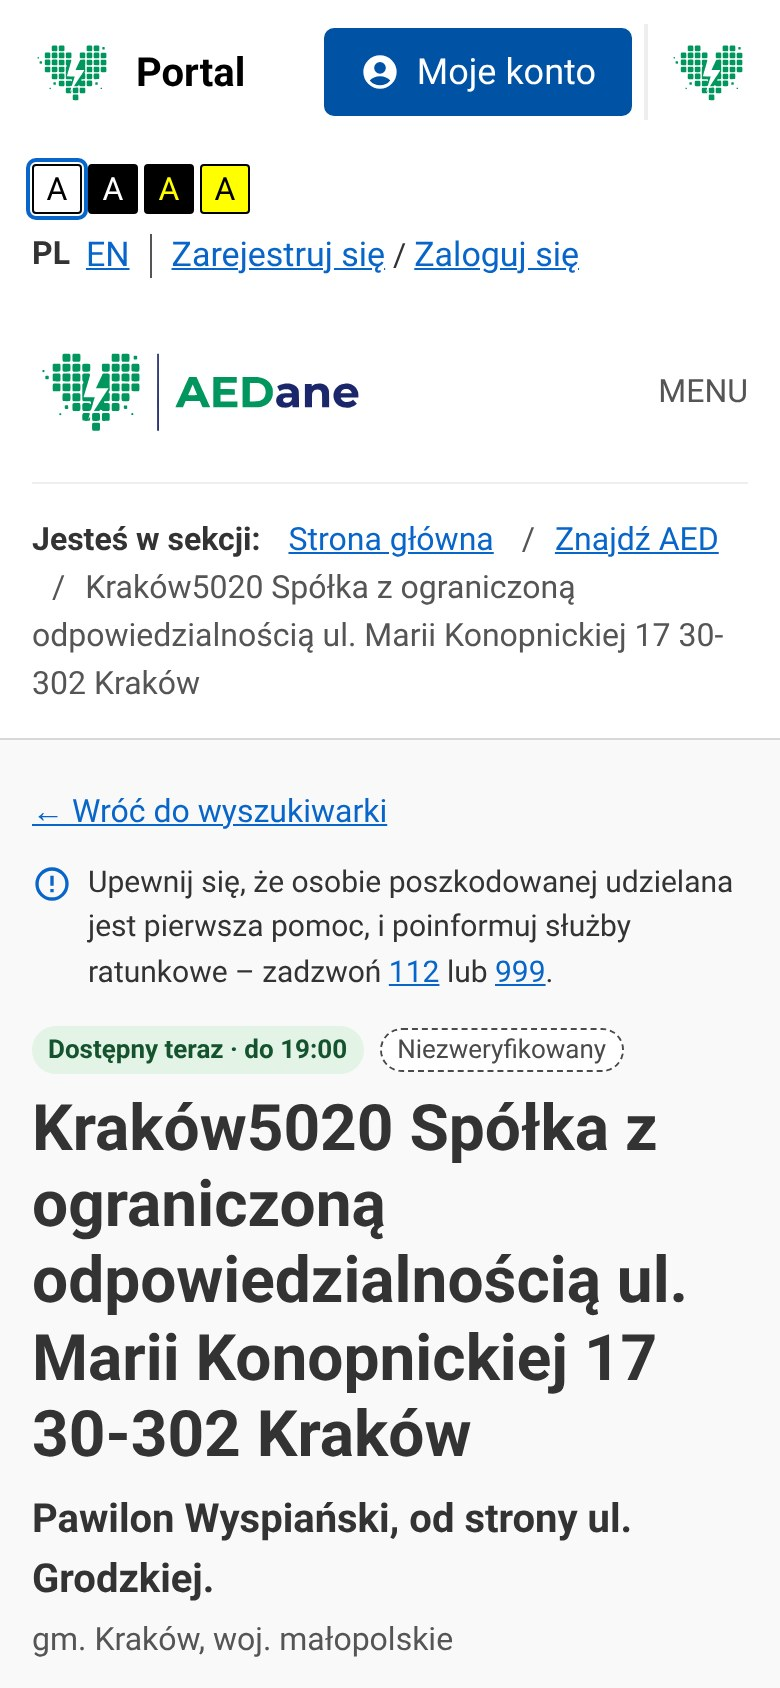
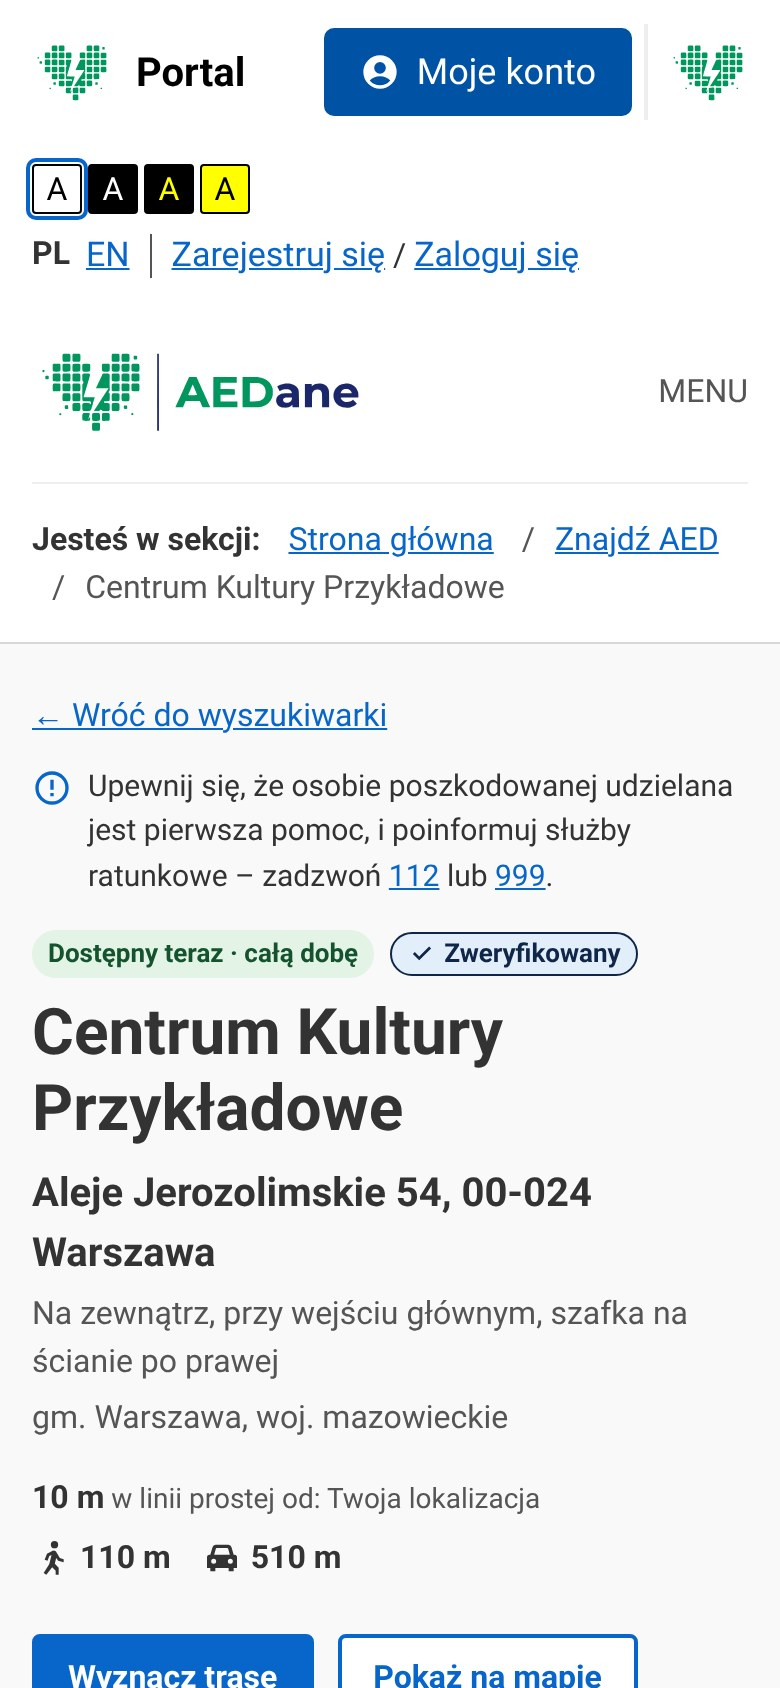
presentation: Inter zamiast Montserrat, AED wzorcowy na tytule i w ścieżce obywatela, prostszy slajd architektury
AI-Assisted: Claude Code claude-opus-5-5
Claude-Session: https://claude.ai/code/session_01KGKLQRRSoYEonnxSuS6fbZ

Changed region(s): [[0.0308, 0.3389, 0.9538, 1.0], [0.8, 0.955, 0.8308, 1.0]]

diff --git a/presentation/narzedzia/zrzuty.py b/presentation/narzedzia/zrzuty.py
@@ -1,72 +1,51 @@
 import datetime, sys
 from playwright.sync_api import sync_playwright
-# Zrzuty prototypu do prezentacji (Playwright, Python).
-# Serwery: cd app && python -m http.server 8765 (MAIN) oraz kopia app/ z rekordem wzorcowym
-# (node presentation/narzedzia/rekord_wzorcowy.js <kopia-app>) na porcie 8766 (DEMO).
-# Uruchomienie: python presentation/narzedzia/zrzuty.py [model citizen wcag desk]
-# Zegar: wtorek 11:00, żeby „dostępny teraz” wyglądało jak w dzień.
+# Zrzuty prototypu do prezentacji (Playwright, Python), na kopii app/ z rekordem wzorcowym:
+#   cp -r app /tmp/app-demo && node presentation/narzedzia/rekord_wzorcowy.js /tmp/app-demo
+#   cd /tmp/app-demo && python -m http.server 8766
+# Uruchomienie: python presentation/narzedzia/zrzuty.py [flow hc font]
+# Zegar: wtorek 11:00; położenie: przy AED wzorcowym (Warszawa, Al. Jerozolimskie 54).
 import pathlib
 OUT=str(pathlib.Path(__file__).resolve().parent.parent / "zrzuty-surowe") + "/"
 pathlib.Path(OUT).mkdir(exist_ok=True)
-MAIN="http://localhost:8765/"; DEMO="http://localhost:8766/"
+DEMO="http://localhost:8766/"
 T=datetime.datetime(2026,11,24,11,0)
 IOS="Mozilla/5.0 (iPhone; CPU iPhone OS 18_0 like Mac OS X) AppleWebKit/605.1.15 (KHTML, like Gecko) Version/18.0 Mobile/15E148 Safari/604.1"
 MODEL="aed-warszawa-centrum-kultury-przykladowe-bd767fc6fc-mazowieckie"
-def ctx(b,w,h,geo=None,mobile=False,perms=True):
-    return b.new_context(viewport={"width":w,"height":h},device_scale_factor=2 if mobile else 1.5,is_mobile=mobile,has_touch=mobile,
-        locale="pl-PL",timezone_id="Europe/Warsaw",geolocation=geo,permissions=["geolocation"] if (geo and perms) else [],user_agent=IOS if mobile else None)
-def page(c):
-    p=c.new_page(); p.clock.install(time=T); return p
-KRK={"latitude":50.0614,"longitude":19.9372}
-WAW={"latitude":52.2297,"longitude":21.0122}
-which=sys.argv[1:] or ["all"]
-want=lambda n:"all" in which or n in which
+GEO={"latitude":52.22884,"longitude":21.00338}
+def ctx(b,w,h,mobile=True,geo=GEO):
+    return b.new_context(viewport={"width":w,"height":h},device_scale_factor=2,is_mobile=mobile,has_touch=mobile,locale="pl-PL",timezone_id="Europe/Warsaw",geolocation=geo,permissions=["geolocation"],user_agent=IOS if mobile else None)
+which=sys.argv[1:] or ["all"]; want=lambda n:"all" in which or n in which
 with sync_playwright() as pw:
     b=pw.chromium.launch()
-    if want("model"):
-        c=ctx(b,1440,900,WAW); p=page(c); p.goto(DEMO+"aed.html?aed="+MODEL); p.wait_for_timeout(1500)
-        btn=p.get_by_role("button",name="Pokaż odległość")
-        if btn.count(): btn.first.click()
-        p.wait_for_timeout(7000); p.evaluate("window.scrollTo(0,0)"); p.wait_for_timeout(300)
-        p.screenshot(path=OUT+"model-desktop.png"); 
-        p.screenshot(path=OUT+"model-desktop-full.png",full_page=True); c.close()
-        c=ctx(b,390,844,WAW,True); p=page(c); p.goto(DEMO+"aed.html?aed="+MODEL); p.wait_for_timeout(1500)
-        btn=p.get_by_role("button",name="Pokaż odległość")
-        if btn.count(): btn.first.click()
-        p.wait_for_timeout(7000); p.evaluate("window.scrollTo(0,0)"); p.wait_for_timeout(300)
-        p.screenshot(path=OUT+"model-mobile.png"); p.screenshot(path=OUT+"model-mobile-full.png",full_page=True); c.close()
-    if want("citizen"):
-        c=ctx(b,390,844,KRK,True); p=page(c); p.goto(MAIN+"index.html"); p.wait_for_timeout(2000)
-        p.screenshot(path=OUT+"c1-start.png")
+    if want("flow"):
+        c=ctx(b,390,844); p=c.new_page(); p.clock.install(time=T)
+        p.goto(DEMO+"index.html"); p.wait_for_timeout(1800); p.screenshot(path=OUT+"o1-start.png")
         p.click("#locate"); p.wait_for_timeout(9000)
-        p.locator("#highlight").scroll_into_view_if_needed(); p.wait_for_timeout(500)
-        p.screenshot(path=OUT+"c2-wynik.png")
-        p.locator("#highlight [data-show]").first.click(); p.wait_for_timeout(6000)
-        p.screenshot(path=OUT+"c3-dymek.png")
-        p.locator(".popup-details-link").first.click(); p.wait_for_timeout(2500)
+        print("najblizszy:", p.locator("#highlight h3, #highlight .highlight-title").first.inner_text() if p.locator("#highlight h3, #highlight .highlight-title").count() else p.locator("#highlight").inner_text()[:120])
+        # tytułowy: mapa u góry, pod nią karta najbliższego AED
+        top=p.evaluate("document.querySelector('#map').getBoundingClientRect().top+window.scrollY")
+        hb=p.evaluate("(()=>{const r=document.querySelector('#highlight').getBoundingClientRect();return r.bottom+window.scrollY})()")
+        print("map top",top,"highlight bottom",hb)
+        p.evaluate(f"window.scrollTo(0,{max(0,hb-844+16)})"); p.wait_for_timeout(600)
+        p.screenshot(path=OUT+"o2-wynik.png")
+        p.locator("#highlight [data-show]").first.click(); p.wait_for_timeout(5000)
+        p.screenshot(path=OUT+"o3-dymek.png")
+        p.goto(DEMO+"aed.html?aed="+MODEL); p.wait_for_timeout(1500)
         btn=p.get_by_role("button",name="Pokaż odległość")
         if btn.count(): btn.first.click()
         p.wait_for_timeout(6000); p.evaluate("window.scrollTo(0,0)"); p.wait_for_timeout(300)
-        p.screenshot(path=OUT+"c4-szczegoly.png"); c.close()
-    if want("wcag"):
-        c=ctx(b,390,844,KRK,True); p=page(c); p.goto(MAIN+"index.html"); p.wait_for_timeout(1500)
-        p.click("button[data-contrast='black-yellow']"); p.click("#locate"); p.wait_for_timeout(8000); p.evaluate("window.scrollTo(0,0)")
+        p.screenshot(path=OUT+"o4-szczegoly.png"); p.screenshot(path=OUT+"o4-full.png",full_page=True); c.close()
+    if want("hc"):
+        c=ctx(b,390,844); p=c.new_page(); p.clock.install(time=T)
+        p.goto(DEMO+"index.html"); p.wait_for_timeout(1500)
+        p.click("button[data-contrast='black-yellow']"); p.click("#locate"); p.wait_for_timeout(9000)
+        hb=p.evaluate("(()=>{const r=document.querySelector('#highlight').getBoundingClientRect();return r.bottom+window.scrollY})()")
+        p.evaluate(f"window.scrollTo(0,{max(0,hb-844+16)})"); p.wait_for_timeout(600)
         p.screenshot(path=OUT+"w-kontrast.png"); c.close()
-        c=ctx(b,320,700,KRK,True); p=page(c); p.goto(MAIN+"index.html"); p.wait_for_timeout(1500)
-        p.screenshot(path=OUT+"w-320.png"); print("scrollW",p.evaluate("document.documentElement.scrollWidth")); c.close()
-        c=ctx(b,1440,900,KRK); p=page(c); p.goto(MAIN+"index.html"); p.wait_for_timeout(1500)
-        p.click("button[data-font='200']")
-        p.wait_for_timeout(500); p.screenshot(path=OUT+"w-tekst.png"); c.close()
-        c=ctx(b,390,844,KRK,True,perms=False); p=page(c); p.goto(MAIN+"index.html"); p.wait_for_timeout(1500)
-        p.click("#locate"); p.wait_for_timeout(1500); p.locator("#geo-help").scroll_into_view_if_needed()
-        p.screenshot(path=OUT+"w-pomoc.png"); c.close()
-        c=ctx(b,390,844,None,True); p=page(c); p.goto(MAIN+"index.html"); p.wait_for_timeout(1500)
-        p.click("#search"); p.keyboard.type("krosno akademia",delay=60); p.wait_for_timeout(1200)
-        p.screenshot(path=OUT+"w-podpowiedzi.png"); c.close()
-    if want("desk"):
-        c=ctx(b,1440,900,KRK); p=page(c); p.goto(MAIN+"index.html"); p.wait_for_timeout(1500)
-        p.click("#locate"); p.wait_for_timeout(8000)
-        p.locator("#highlight [data-show]").first.click(); p.wait_for_timeout(6000)
-        p.evaluate("window.scrollTo(0,0)"); p.wait_for_timeout(300)
-        p.screenshot(path=OUT+"desk-krakow.png"); c.close()
+    if want("font"):
+        c=ctx(b,768,1024,mobile=False); p=c.new_page(); p.clock.install(time=T)
+        p.goto(DEMO+"index.html"); p.wait_for_timeout(1500)
+        p.click("button[data-font='200']"); p.wait_for_timeout(800)
+        p.screenshot(path=OUT+"w-tekst200.png"); c.close()
     b.close()

diff --git a/presentation/README.md b/presentation/README.md
@@ -15,26 +15,25 @@ Hasło prezentacji: **„Otwarte dane. Cenne sekundy. Uratowane życie.”**
 
 | # | Slajd | Co pokazuje | Zrzut / materiał |
 |---|---|---|---|
-| 1 | Tytułowy | logotyp, hasło, zespół, zadanie | `branding/logotyp-aedane.svg`, `zrzuty/obywatel-3-dymek.jpg` |
+| 1 | Tytułowy | logotyp, hasło, zespół; telefon z mapą i najbliższym AED wzorcowym (zweryfikowany, czynny całą dobę) | `branding/logotyp-aedane.svg`, `zrzuty/obywatel-2-wynik.jpg` |
 | 2 | Problem i wyzwanie | historia z treści zadania; 50 AED na dane.gov.pl (3 z 2 479 gmin) vs ok. 18,3 tys. w OSM; wyzwanie | `zrzuty/mapa-luk.jpg` |
-| 3 | Nasza odpowiedź: AEDane | obieg: wzorcowy zakres → pakiet → wykaz zbiorczy w portalu → Znajdź AED; akcja AEDane; „dane muszą mieć właściciela” | sygnet |
+| 3 | Nasza odpowiedź: AEDane | 4 kroki prostym językiem: wspólny formularz → sprawdzenie i paczka → jeden wykaz na dane.gov.pl → Znajdź AED; akcja AEDane | sygnet |
 | 4 | Wzorcowy zakres danych | 41 pól (14/20/7), 8 grup; **wzorcowo opisany AED**: zweryfikowany, ze zdjęciem, godzinami, dostępem, opisem miejsca, dysponentem | `zrzuty/rekord-wzorcowy.jpg` |
-| 5 | Architektura i zgodność z dane.gov.pl | 5 etapów obiegu; formaty, XSD harwestera, licencje, wzór DGA | `zrzuty/portal-demo-wykaz.png` |
-| 6 | Ścieżka: dysponent danych | 5 kroków instytucji + 3 kroki dystrybutora | `zrzuty/pakiet-krosno.png` |
-| 7 | Ścieżka: obywatel i ratownik | 4 kroki od telefonu do czynnego AED | `zrzuty/obywatel-1…4-*.jpg` |
-| 8 | Dostępność WCAG i testy | axe-core (14 widoków, 0 naruszeń poza opisanym wyjątkiem 2.5.8), 328 testów, kontrast, 320 px | `zrzuty/wcag-*.jpg` |
+| 5 | Architektura i zgodność z dane.gov.pl | dla osób spoza IT: 3 kroki (instytucja wgrywa plik → portal łączy co noc → każdy korzysta), wynik 50 AED z portalu, zasady portalu | – (wynik: `zrzuty/portal-demo-wykaz.png`) |
+| 6 | Ścieżka: dysponent danych | 5 kroków instytucji + 3 kroki dystrybutora | – |
+| 7 | Ścieżka: obywatel i ratownik | 4 kroki od telefonu do czynnego AED, na AED wzorcowym | `zrzuty/obywatel-1…4-*.jpg` |
+| 8 | Dostępność WCAG i testy | axe-core (14 widoków, 0 naruszeń poza opisanym wyjątkiem 2.5.8), 328 testów, tryb kontrastu, tekst 200% (A+++), pomoc przy lokalizacji | `zrzuty/wcag-*.jpg` |
 | 9 | Ograniczenia i dalszy rozwój | **lista ograniczeń** i propozycje rozwoju | – |
 | 10 | Dziękujemy za uwagę | hasło, logotyp, zespół, repozytorium | – |
 
-Zrzuty ekranu są na slajdach 1, 2, 4, 5, 6, 7 i 8 (wymóg: min. 5). Kroki użytkownika: slajdy 6 i 7. Ograniczenia: slajd 9.
+Zrzuty ekranu są na slajdach 1, 2, 4, 7 i 8 (wymóg: min. 5). Kroki użytkownika: slajdy 6 i 7. Ograniczenia: slajd 9.
 
 ## Skąd są liczby i zrzuty
 
 - **Statystyki** (slajdy 2, 9): `python -m ingest stats` i `python -m ingest gaps` z 22.11.2026. Prototyp pokazuje 18 306 AED (dane z 21.11.2026), stąd „ok. 18,3 tys.”.
-- **Rekord wzorcowy** (slajd 4): rekord przykładowy z arkusza „Przykład” w `schema/wzorcowy-zakres-danych-aed.xlsx` (Centrum Kultury Przykładowe – **dane poglądowe**, opisane tak na slajdzie), dopisany tylko do **kopii** danych prototypu przez `narzedzia/rekord_wzorcowy.js`. Zdjęcie poglądowe: OpenAEDMap, CC0. W prawdziwych danych nie ma dziś AED, który byłby jednocześnie zweryfikowany i miał zdjęcie – 49 zweryfikowanych AED gmin nie ma zdjęć ani godzin.
-- **Zrzuty prototypu:** `narzedzia/zrzuty.py` (Playwright, Chromium), zegar ustawiony na wtorek 11:00, położenie: Kraków (Rynek) i Warszawa (centrum). Telefon: iPhone, 390×844 px. Zrzut trybu kontrastu pochodzi z gałęzi `krystian/app-kontrast-poprawki` (poprawki kolorów w trybach kontrastu).
+- **Rekord wzorcowy** (slajdy 1, 4 i 7): rekord przykładowy z arkusza „Przykład” w `schema/wzorcowy-zakres-danych-aed.xlsx` (Centrum Kultury Przykładowe – **dane poglądowe**, opisane tak na slajdzie), dopisany tylko do **kopii** danych prototypu przez `narzedzia/rekord_wzorcowy.js`. Zdjęcie poglądowe: OpenAEDMap, CC0. W prawdziwych danych nie ma dziś AED, który byłby jednocześnie zweryfikowany i miał zdjęcie – 49 zweryfikowanych AED gmin nie ma zdjęć ani godzin.
+- **Zrzuty prototypu:** `narzedzia/zrzuty.py` (Playwright, Chromium) na kopii prototypu z gałęzi `krystian/app-kontrast-poprawki` (poprawki kolorów w trybach kontrastu) z dopisanym AED wzorcowym; zegar ustawiony na wtorek 11:00, położenie przy AED wzorcowym (Warszawa). Telefon: iPhone, 390×844 px; tekst 200%: 768×1024 px (opcja A+++ jest od 768 px, jak na dane.gov.pl). Krój pisma prezentacji: Inter (pełne polskie znaki).
 - **Portal:** wynik `portal/aed_demo.sh` z `portal/README-DOCKER-AED.md` (22.11.2026, prawdziwe dane 3 gmin → wykaz 50 AED).
-- **Pakiet:** prawdziwy przebieg `python -m ingest package danegovpl-krosno …` (0 błędów, `aed.xml` zgodny z XSD harwestera 1.13).
 - **Testy** (slajd 8): `node --test app/tests/*.test.js` – 63; `pytest schema ingest` – 251 (z XSD, 0 pominiętych); testy scalania wykazu w portalu – 14 (`portal/mcod/resources/tests/test_aed_merge.py`, uruchamiane w kontenerze portalu).
 - **Mapa luk:** `narzedzia/mapa_luk.py` z `ingest/data/out/mapa-luk.geojson`.
 
